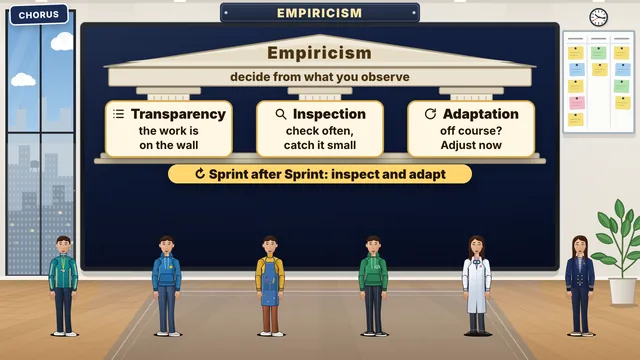
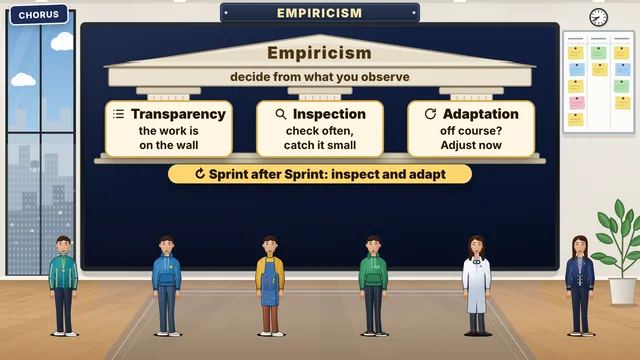
Keep the Scrum wall clock on local system time

diff --git a/js/song-video/team-room.js b/js/song-video/team-room.js
@@ -18,16 +18,17 @@
  * lit windows glow up and down, the daylight through the window dims a
  * little as clouds pass and creeps across the floor as the sun moves, dust
  * floats in its shaft, the plant sways, a few sticky notes stir in the air,
- * and the clock keeps the song's time. Every motion is slow and small and a
- * pure function of song time (animate()), so nothing flashes (WCAG 2.3.1);
- * under reduced motion the room holds still. Storyboards select it with
+ * and the clock shows the device's local time, even while playback is paused.
+ * Ambient motion is slow and small and follows song time (animate()); under
+ * reduced motion it holds still while the clock continues ticking once a second.
+ * Storyboards select it with
  * `theme: team-room`; css/song-video-team-room.css holds its look and
  * restyles the shared badge and stamps.
  */
 (function () {
   'use strict';
 
-  const { tween, fx, onFrame, EASE } = window.Timeline;
+  const { tween, fx, onFrame, onDispose, EASE } = window.Timeline;
   const { el, svg, place } = window.SongKit;
   const W = 960;
   const H = 540;
@@ -219,7 +220,7 @@
     });
   }
 
-  /** The team's task board on the right, three columns of sticky notes, and a clock above it that keeps the song's time. */
+  /** The team's task board, three columns of sticky notes, and a local-time wall clock. */
   function taskBoard(root, motion) {
     const b = { x: 846, y: 48, w: 104, h: 150 };
     const g = svg('g', { class: 'tr-board' }, root);
@@ -252,7 +253,7 @@
       for (const s of stirring) s.note.setAttribute('transform', `rotate(${f1(s.tilt + 1.4 * wave(t, s.period, s.phase))} ${s.pin[0]} ${s.pin[1]})`);
     });
 
-    // The clock over the board: 10:15 at the downbeat, then the song's time.
+    // The wall clock is independent of the audio timeline and reduced motion.
     const c = { x: b.x + b.w / 2, y: 26, r: 14 };
     const clock = svg('g', { class: 'tr-clock', transform: `translate(${c.x} ${c.y})` }, root);
     svg('circle', { class: 'tr-clock-shadow', cx: 1.5, cy: 2, r: c.r }, clock);
@@ -265,14 +266,25 @@
       ticks.push(`M${f1(Math.sin(a) * inner)} ${f1(-Math.cos(a) * inner)}L${f1(Math.sin(a) * (c.r - 3.4))} ${f1(-Math.cos(a) * (c.r - 3.4))}`);
     }
     svg('path', { class: 'tr-clock-ticks', d: ticks.join('') }, clock);
-    const hour = svg('path', { class: 'tr-clock-hand', d: 'M0 0 L0 -6.5' }, clock);
-    const minute = svg('path', { class: 'tr-clock-hand', d: 'M0 0 L0 -9.5' }, clock);
-    const second = svg('path', { class: 'tr-clock-second', d: 'M0 2.5 L0 -10.5' }, clock);
+    const hour = svg('path', { class: 'tr-clock-hand', 'data-testid': 'team-room-hour-hand', d: 'M0 0 L0 -6.5' }, clock);
+    const minute = svg('path', { class: 'tr-clock-hand', 'data-testid': 'team-room-minute-hand', d: 'M0 0 L0 -9.5' }, clock);
+    const second = svg('path', { class: 'tr-clock-second', 'data-testid': 'team-room-second-hand', d: 'M0 2.5 L0 -10.5' }, clock);
     svg('circle', { class: 'tr-clock-pin', r: 1.2 }, clock);
-    motion.push((t) => {
-      hour.setAttribute('transform', `rotate(${f1(307.5 + t / 120)})`);
-      minute.setAttribute('transform', `rotate(${f1(90 + t / 10)})`);
-      second.setAttribute('transform', `rotate(${f1((t * 6) % 360)})`);
+    let tick;
+    const updateClock = () => {
+      clearTimeout(tick);
+      const now = new Date();
+      const minutes = now.getMinutes() + now.getSeconds() / 60;
+      hour.setAttribute('transform', `rotate(${f1((now.getHours() % 12) * 30 + minutes / 2)})`);
+      minute.setAttribute('transform', `rotate(${f1(minutes * 6)})`);
+      second.setAttribute('transform', `rotate(${now.getSeconds() * 6})`);
+      tick = setTimeout(updateClock, 1000 - now.getMilliseconds());
+    };
+    updateClock();
+    document.addEventListener('visibilitychange', updateClock);
+    onDispose(() => {
+      clearTimeout(tick);
+      document.removeEventListener('visibilitychange', updateClock);
     });
   }
 

diff --git a/tests/song-team-room-clock.spec.js b/tests/song-team-room-clock.spec.js
@@ -1,0 +1,45 @@
+// @ts-check
+const { test, expect } = require('@playwright/test');
+
+test.use({ timezoneId: 'America/Los_Angeles' });
+
+// The hands are decorative artwork; their stable IDs identify the visible
+// orientation, without exposing the clock's timer or other internal state.
+async function expectClock(page, angles) {
+  for (const [hand, angle] of Object.entries(angles)) {
+    await expect.poll(() => page.getByTestId(`team-room-${hand}-hand`).evaluate(
+      node => node.transform.baseVal.getItem(0).angle,
+    ), { message: `the ${hand} hand shows local system time` }).toBeCloseTo(angle, 1);
+  }
+}
+
+for (const reducedMotion of ['no-preference', 'reduce']) {
+  test(`Scrum wall clock follows local time while paused and seeking (${reducedMotion})`, async ({ page }) => {
+    await page.emulateMedia({ reducedMotion });
+    // Freeze Date while leaving timers running: the clock must refresh itself
+    // without a media frame, including across local midnight.
+    await page.clock.setFixedTime(new Date('2026-11-22T07:59:58Z'));
+    await page.goto('/assets/song-player/inspect-and-adapt.html');
+    // Reduced motion initially selects lyrics-only mode; opt into the picture.
+    await page.getByRole('checkbox', { name: 'Use lyrics-only mode', exact: true }).uncheck();
+    const audio = page.getByLabel('Inspect and Adapt: a Scrum musical audio', { exact: true });
+    await expect(page.getByTestId('team-room-second-hand')).toBeVisible();
+    await expect(audio).toHaveJSProperty('paused', true);
+    await expectClock(page, { hour: 360, minute: 359.8, second: 348 });
+
+    await page.clock.setFixedTime(new Date('2026-11-22T08:00:01Z'));
+    await expectClock(page, { hour: 0, minute: 0.1, second: 6 });
+    await expect(audio).toHaveJSProperty('paused', true);
+    await expect(audio).toHaveJSProperty('currentTime', 0);
+
+    // Timeline.seek is the renderer's public API. Neither forward nor backward
+    // seeking may substitute song elapsed time for the wall clock.
+    await page.evaluate(() => window.Timeline.seek(180));
+    await expectClock(page, { hour: 0, minute: 0.1, second: 6 });
+    await page.evaluate(() => window.Timeline.seek(0));
+    await expectClock(page, { hour: 0, minute: 0.1, second: 6 });
+
+    await page.clock.setFixedTime(new Date('2026-11-22T11:04:05Z'));
+    await expectClock(page, { hour: 92, minute: 24.5, second: 30 });
+  });
+}
